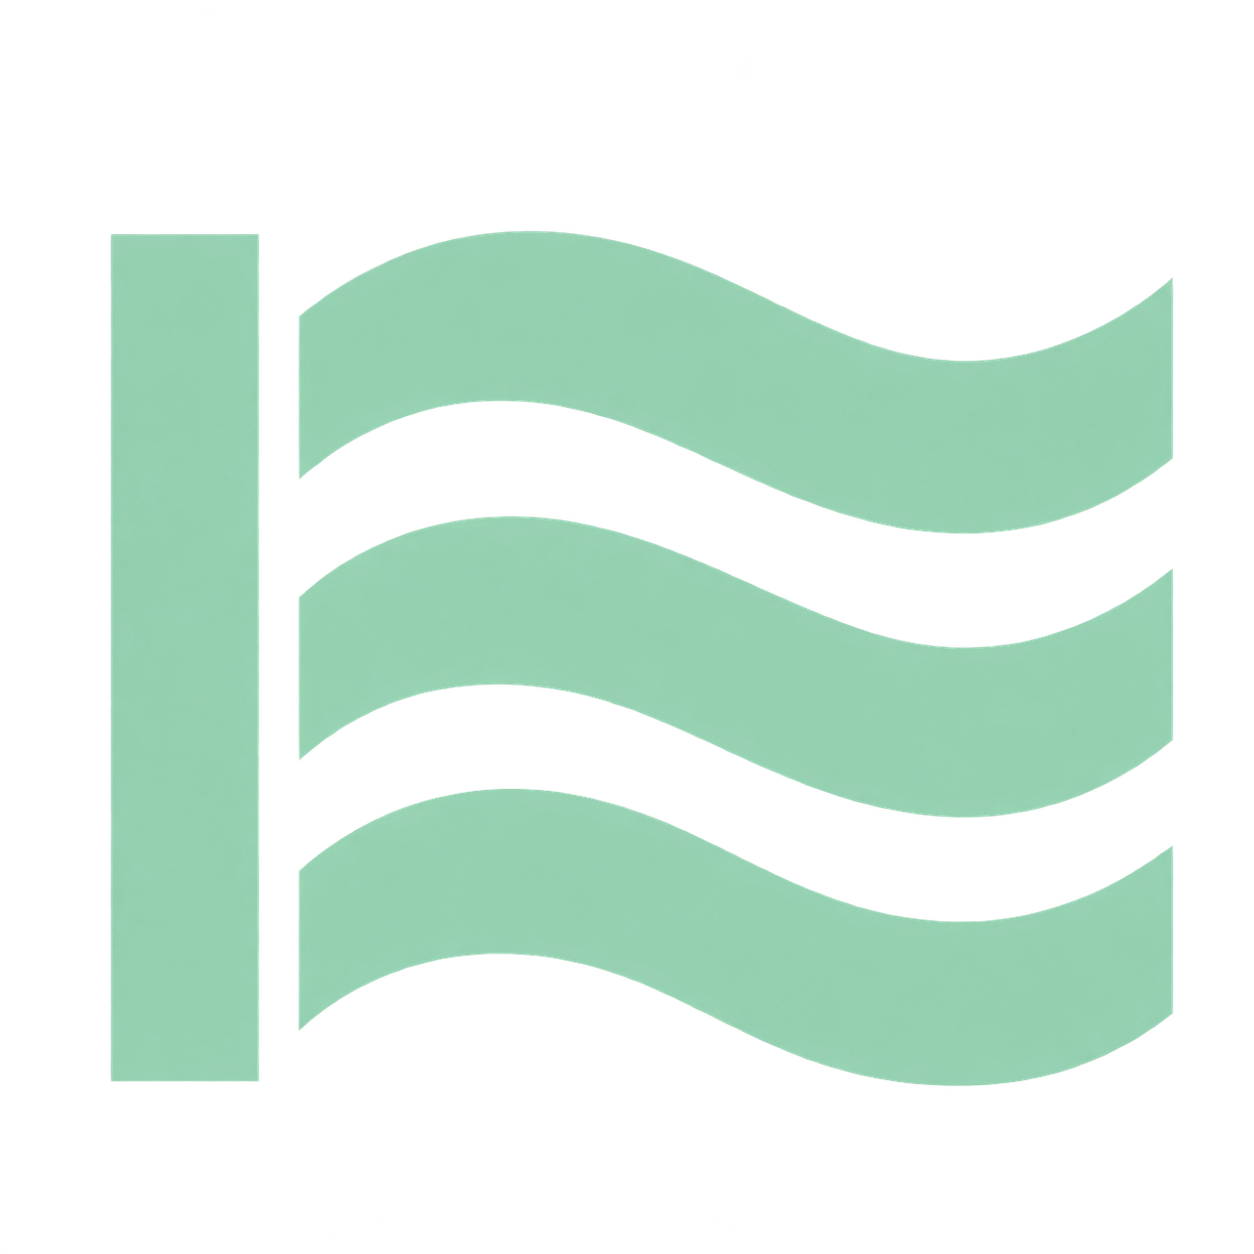
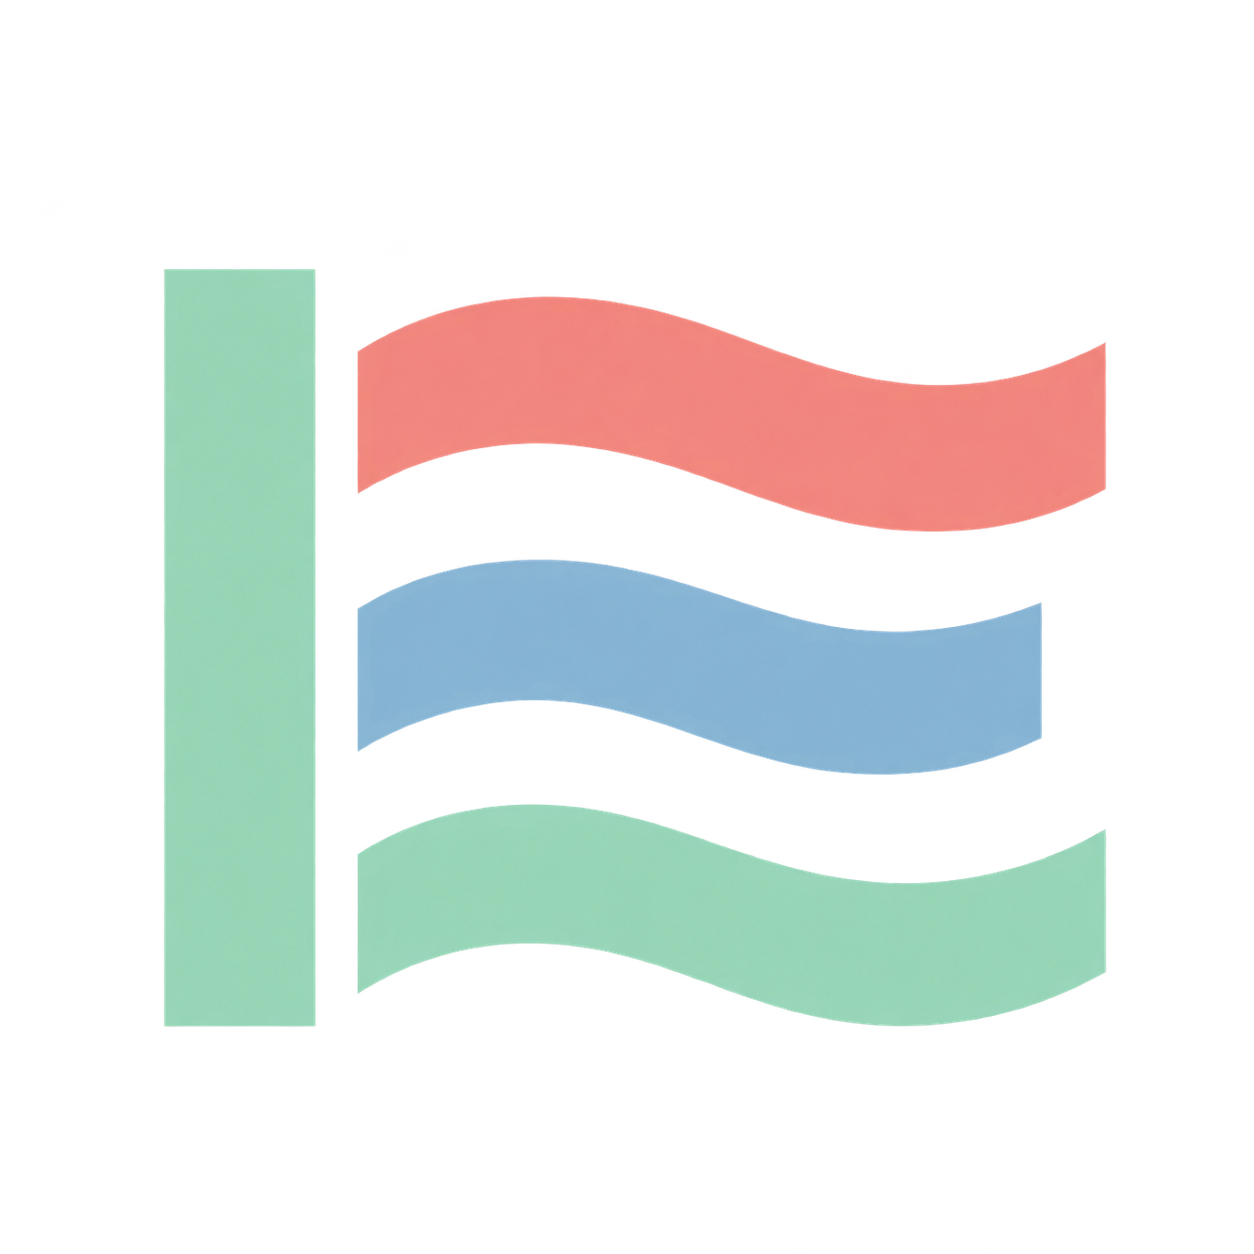
Refine the desktop emblem and restore spectral colours
Use a mint slit with coral, blue and mint ribbons on transparent alpha. Soften the curves and shorten the middle arm to clarify the E silhouette. Verify the emblem in the Qt header and built wheel; document the current palette and generation prompt.

diff --git a/docs/brand/README.md b/docs/brand/README.md
@@ -1,10 +1,12 @@
 # EFOSpec identity
 
-- [Desktop emblem](../../src/efospec/assets/efospec-mark.png): transparent, light mint green; sits left of the EFOSpec title.
+- [Desktop emblem](../../src/efospec/assets/efospec-mark.png): transparent spectral **E**, left of the EFOSpec title.
+- Mint slit; coral, blue, and mint ribbons with gentle curves and a shorter middle arm.
+- Desktop palette: mint `#9BD3B4`, coral `#EF8D86`, blue `#8DB7D2` (design targets).
 - `efospec-logo.png`: original horizontal wordmark for the README and documentation.
 - `efospec-app-icon.png`: original square icon concept for future packaging.
 - Symbol: an optical slit beside three spectral ribbons, forming an **E**.
-- Palette: forest green, muted coral, muted blue, and warm ivory.
+- Original palette: forest green, muted coral, muted blue, and warm ivory.
 - Original concepts are opaque; the desktop emblem uses PNG alpha transparency.
 - Generated with the imagegen tool; [saved prompts](prompts.txt).
 - The native Qt app uses the transparent emblem; standalone installers remain planned.
